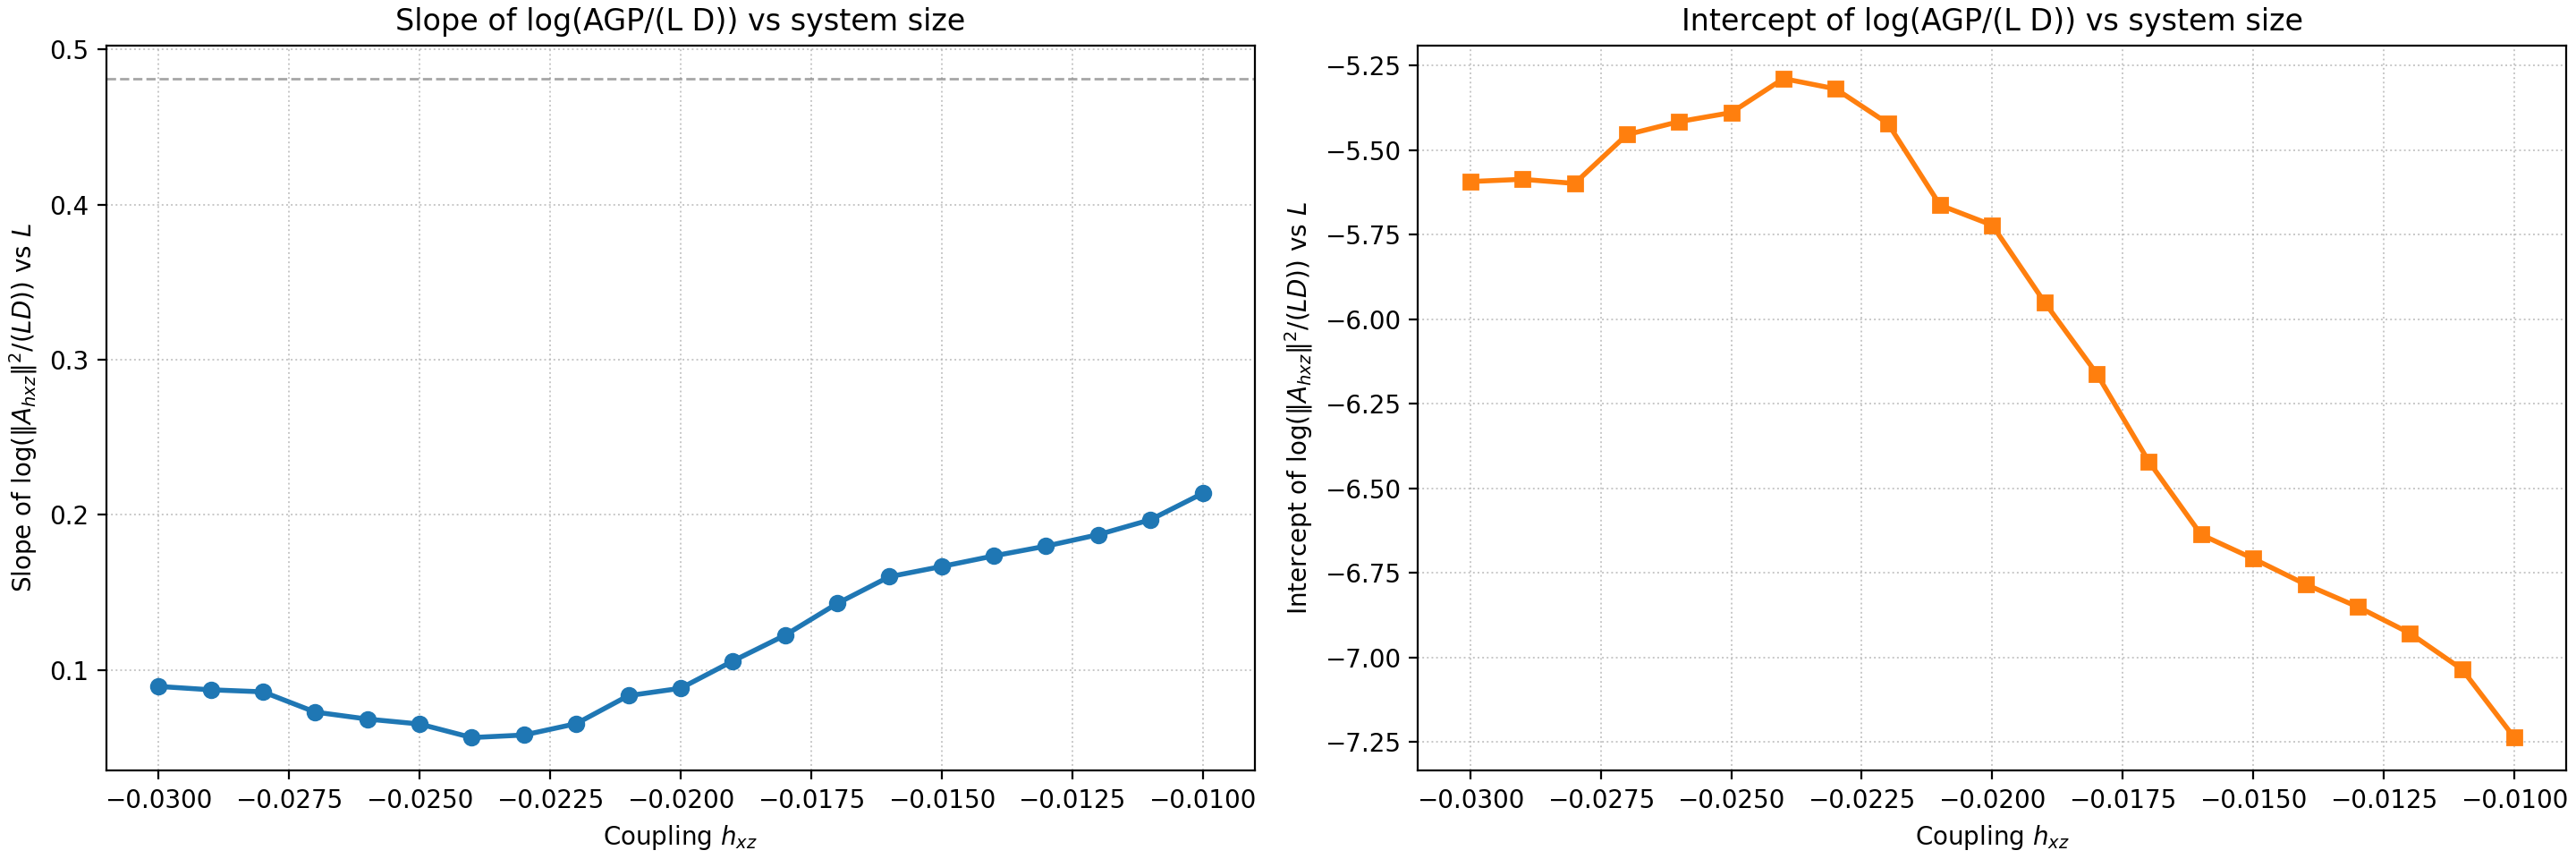
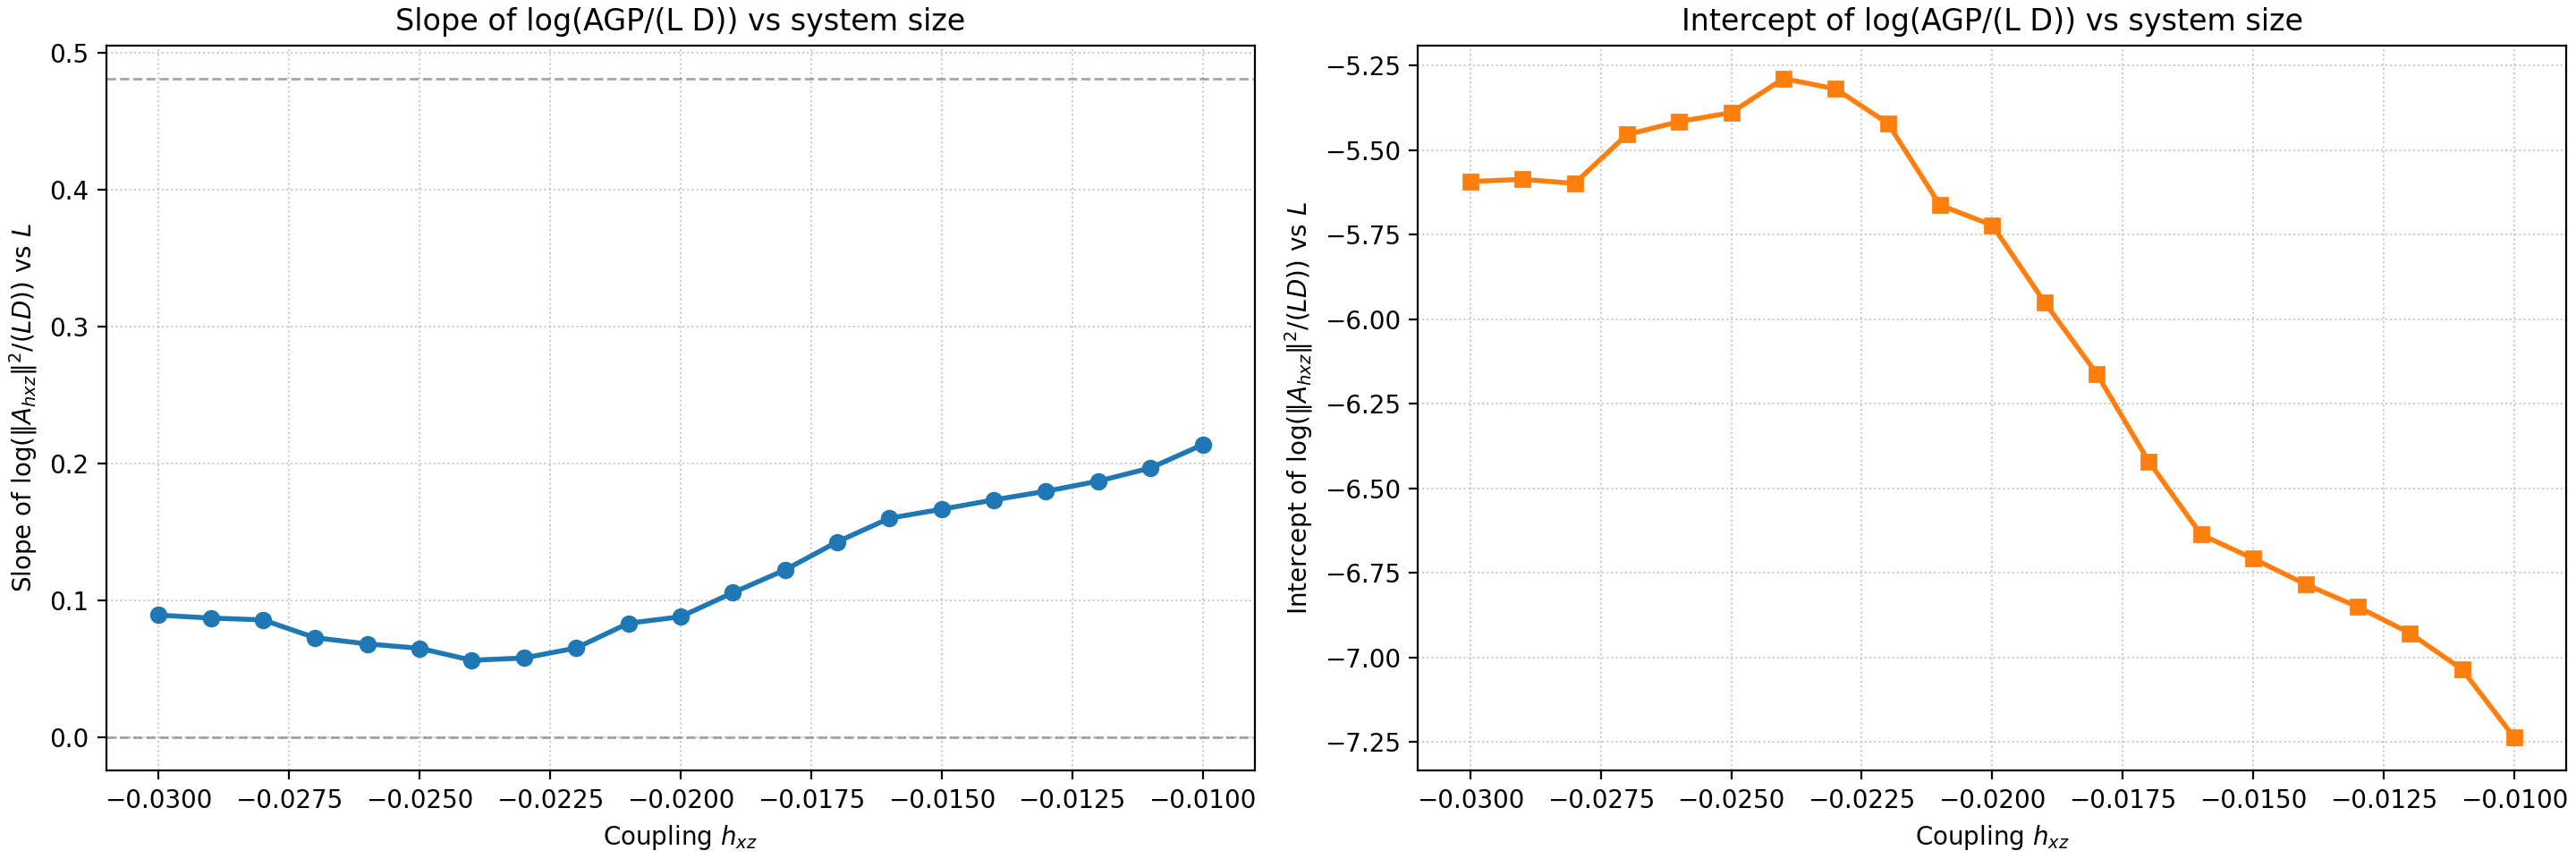
fix: slope fit plot adds baseline 0

diff --git a/pxp_agp_scaling.py b/pxp_agp_scaling.py
@@ -614,6 +614,7 @@ def plot_pxp_agp_normalized_log_series(results: dict[int, list[tuple[float, floa
     
     # Plot slope vs hxz
     ax1.plot(hxz_array, slopes, marker="o", linewidth=2.0, markersize=6, color="C0")
+    ax1.axhline(0.0, color="gray", linestyle="--", linewidth=1.0, alpha=0.7)
     ax1.axhline(np.log((np.sqrt(5)+1)/2), color="gray", linestyle="--", linewidth=1.0, alpha=0.7)
     ax1.set_xlabel(r"Coupling $h_{xz}$")
     ax1.set_ylabel(r"Slope of $\log(\|A_{hxz}\|^2 / (L D))$ vs $L$")